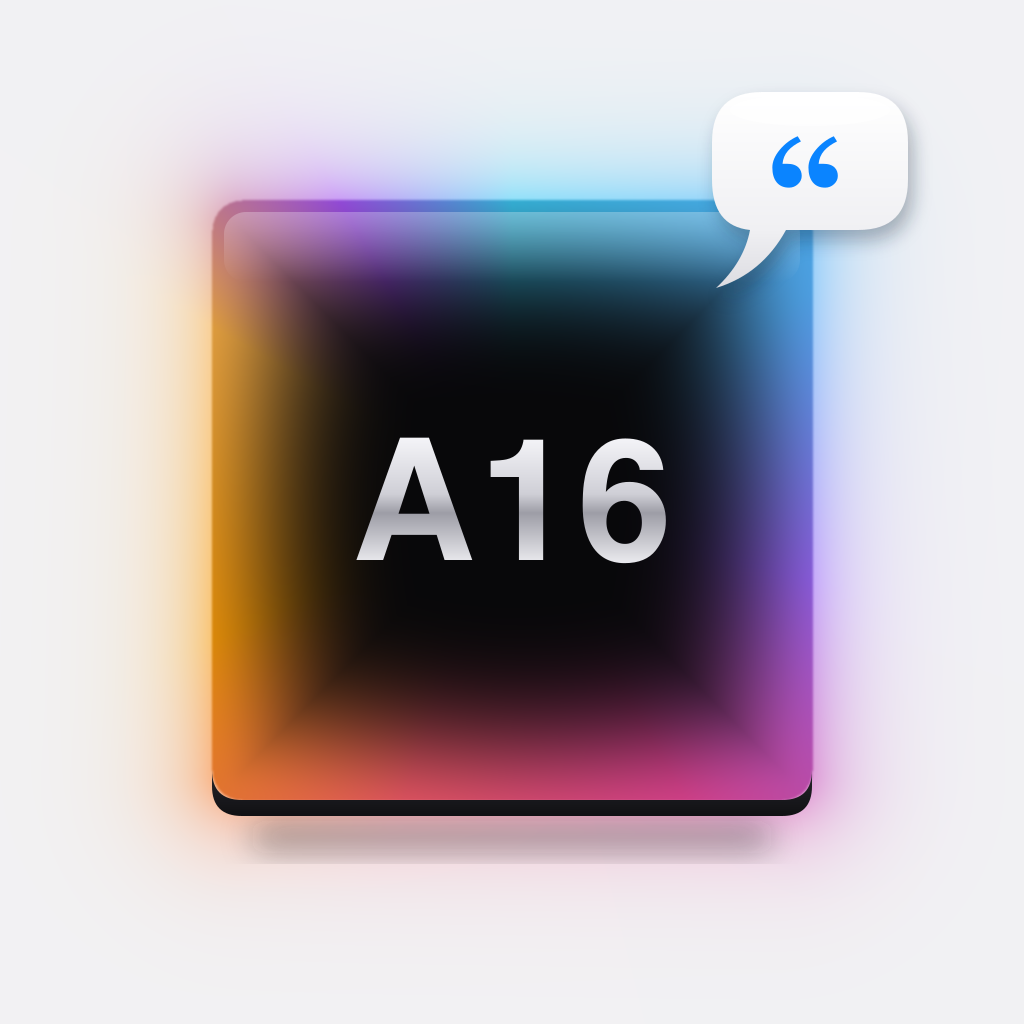
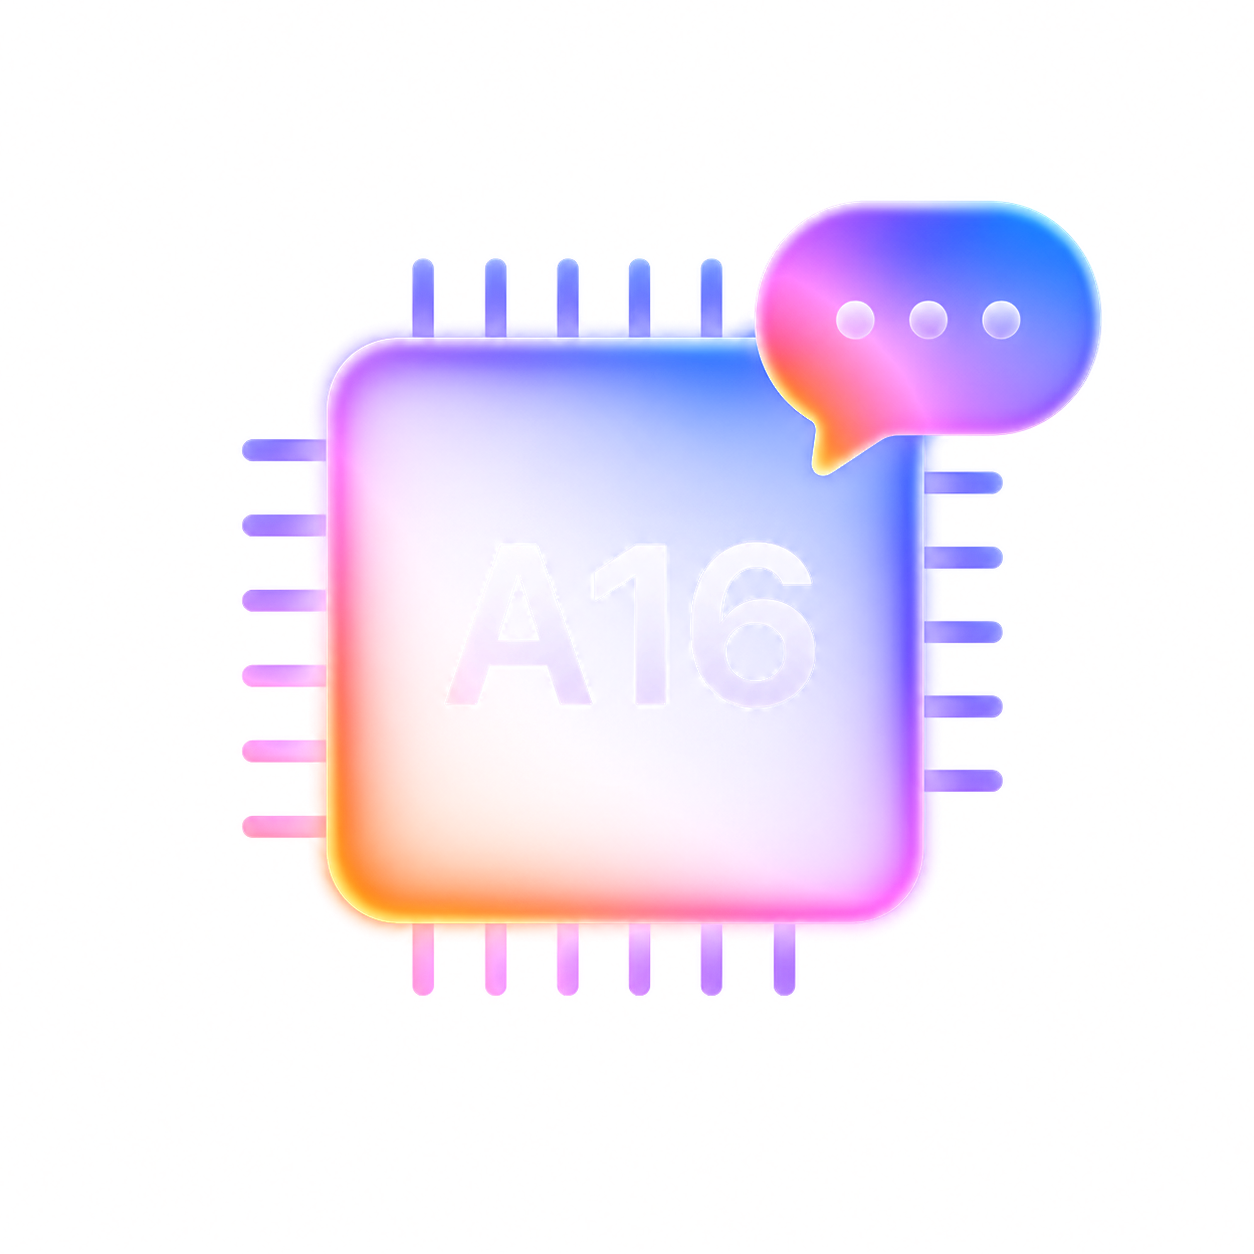
feat: W3 a16-summarizer — locked copy, replacement artwork, engine assets
Workshop W3 output. Copy is LOCKED VERBATIM per Omar's line-by-line rulings;
B-A and B-B lift it mechanically without re-editing.

Resolved the model-size discrepancy that blocked the copy. The repo carried
three figures measuring three different things:
  - 831 MB is ACTIVE RAM (the app's Memory Details popover), not storage
  - 828 MB is model.safetensors in MiB, labelled "MB", weights only
  - 847 MB matches no measured artifact; it reads as an estimate from a
    rounded 1.5B param count (1.5e9 x 4.501 bits = 844 MB)
Measured ground truth, local mlx_model == published HF snapshot, both
880,107,314 B: weights 868.6 MB / 828.4 MiB, full snapshot 880.1 MB.
The copy states 880 MB, meaning the complete 4-bit model on disk.

Artwork replaced with Omar's chosen image (A16 die with chat bubble, glowing
on black; 1254x1254 straight alpha). Verified rather than assumed: composited
on the card gradient, background pixels deviate from the pure gradient by at
most 1/255 per channel. No halo, no fringing.

Card gradient #0A0A0C -> #2A2A2E per Omar's ruling, giving up W4's light card
knowingly. Case-study hero #4338CA -> #1E1B4B chosen from measurement, not
impression: the artwork's saturated pixels are 53% inside hue 210-270 (peak
220-250, blue-violet), which is why the checkpoint's fuchsia was wrong. It
carries white at 7.90:1 and separates from the near-black squircle at 2.50:1.

The W4 generator is no longer a live trap. Renamed to .SUPERSEDED.mjs, headed
[…]

diff --git a/docs/superpowers/content/a16-summarizer-COPY.md b/docs/superpowers/content/a16-summarizer-COPY.md
@@ -1,0 +1,204 @@
+# a16-summarizer — LOCKED COPY (W3, approved 2026-08-30)
+
+**This copy is LOCKED VERBATIM on Omar's approval.** It carries the same status as
+About's locked copy and the Nahtadi COPY-LOCKED rows: every string below was ruled
+line by line at the W3 checkpoint. It is not a draft and it is not a starting point.
+
+- **B-A and B-B lift these strings mechanically.** Every row is a *value*: write it
+  exactly as it appears. No re-phrasing, no "while I'm in here" improvements, no
+  restoring anything from §6.
+- **If a layout cannot hold a line, raise it with Omar.** The strings do not shrink
+  to fit a layout.
+- Sitewide copy law is satisfied and verified: no em dashes, no AI cadence, canonical
+  facts only, skills-defensibility applied to A6. **No Core ML claim anywhere.**
+  Nahtadi is not mentioned, so nothing here can imply Nahtadi contains ML.
+
+Scope: the `a16-summarizer` entry in `src/data/projects.json` (§1), its entry in
+`src/lib/caseStudies.ts` (§2), and the asset/gradient facts already landed (§3).
+
+---
+
+## §0 — The model-size ruling (READ BEFORE USING ANY SIZE NUMBER)
+
+The repo carried **three** different figures. They measure three different things,
+and one of them is simply wrong. Resolved by direct measurement of the model
+directory and of the published Hugging Face snapshot, which are byte-identical.
+
+| Figure | Where it appears | What it actually is | Verdict |
+|---|---|---|---|
+| **831 MB** | `hero_screen.PNG` stat tile, README | **Active RAM**, not storage. The app's own Memory Details popover reads `Active Memory: 831 MB/5.25 GB`. | Correct, but it is a memory number. Never place it beside a disk number without saying so. |
+| **828 MB** | `results/rouge_mlx_4bit.md` | `model.safetensors` = 868,628,547 B = **828.4 MiB**. Binary units, labelled "MB". | Correct value, wrong unit label, and weights only. |
+| **847 MB** | README (x2), `app/README.md` (x2), `quantization_delta.md` (x2) | Matches **no measured artifact**. Closest reading: 1.5e9 params x 4.501 bits = 844 MB, an estimate from a *rounded* parameter count. The real count implied by 4.501 bits/weight is 1.544B. | **WRONG. Do not publish it.** |
+
+**Measured ground truth** (local `mlx_model/` == HF `osyounis/a16-summarizer-mlx-4bit` blobs, both 880,107,314 B):
+
+| Quantity | Bytes | Decimal | Binary |
+|---|---:|---:|---:|
+| `model.safetensors` (weights only) | 868,628,547 | 868.6 MB | 828.4 MiB |
+| Full snapshot (what the phone downloads) | 880,107,314 | **880.1 MB** | 839.3 MiB |
+
+**The locked copy uses `880 MB`, and it means the complete 4-bit model on disk:
+weights plus tokenizer, decimal MB, which is the unit iOS reports storage in.**
+Compression against the ~3.1 GB fp16 merged model is 3.5x.
+
+Consequence for the media figure: **831 vs 880 is not a contradiction**, because one
+is RAM and one is disk. The composite is therefore unblocked, provided its caption
+names each quantity. See §5.
+
+---
+
+## §1 — Catalog entry (`src/data/projects.json`)
+
+| # | Field | LOCKED value |
+|---|---|---|
+| A1 | `id` | `a16-summarizer` |
+| A2 | `title` | `On-Device LLM Summarizer` |
+| A3 | `tagline` | `A 1.5B model fine-tuned, quantized to 4-bit, and running entirely on an iPhone Apple ruled out for on-device AI.` |
+| A4 | `cardStat` | `880 MB on-device` |
+| A5 | `description` | `QLoRA fine-tune of Qwen2.5-1.5B on DialogSum, merged and quantized to 4-bit MLX, then shipped in a SwiftUI app that runs entirely on an iPhone 14 Pro. Apple draws its on-device LLM line at the A17 Pro with 8 GB of RAM; this runs below it on an A16 with 6 GB, at 880 MB on disk and 44.4 tokens per second.` |
+| A6 | `technologies` | `["Python", "PyTorch", "QLoRA", "MLX", "Swift", "SwiftUI"]` |
+| A7 | `keywords` | `["llm", "on-device", "quantization", "fine-tuning"]` |
+| A8 | `tier` / `featured` / `private` | `showcase` / `true` / `false` |
+| A9 | `stats` | `880 MB at 4-bit • 44.4 tok/s • iPhone 14 Pro` |
+| A10 | `category` | `machine-learning` |
+| A11 | `imageAlt` | `An A16 chip die with pins, glowing in violet, magenta and orange, with a chat bubble at its upper right` |
+| A12 | `links` | `{ "github": "https://github.com/osyounis/a16-summarizer" }` |
+| A13 | `brand.gradient` | `{ "from": "#0A0A0C", "to": "#2A2A2E" }` |
+| A14 | `image` | `/images/projects/a16-summarizer/card.png` |
+
+**A13 must be mirrored into `src/lib/projectStyles.ts`** as
+`className: 'bg-gradient-to-br from-[#0A0A0C] to-[#2A2A2E]'` plus matching `stops`.
+`src/lib/__tests__/projectStyles.test.ts` fails if the two drift.
+
+---
+
+## §2 — Case study (`src/lib/caseStudies.ts`, key `'a16-summarizer'`)
+
+| # | Slot | LOCKED value |
+|---|---|---|
+| B1 | `hero` | `{ from: '#4338CA', to: '#1E1B4B' }` |
+| B2 | `thesis` | `Apple draws its on-device LLM line at the A17 Pro with 8 GB. This one runs below it, on an A16 with 6 GB.` |
+| B3 | stat 1 | value `0.29 → 0.46` · label `ROUGE-L, base to the shipped 4-bit model` |
+| B4 | stat 2 | value `880 MB` · label `4-bit model on disk, down from 3.1 GB` |
+| B5 | stat 3 | value `44.4 tok/s` · label `sustained decode on an iPhone 14 Pro` |
+| B6 | tech chips | renders from A6: `Python · PyTorch · QLoRA · MLX · Swift · SwiftUI` |
+
+### B7 — THE PROBLEM
+**eyebrow:** `THE PROBLEM`
+**heading:** `Apple drew the on-device line above this phone.`
+
+**¶1** (no emphasis runs)
+> Apple Intelligence runs its on-device language model only on the A17 Pro and newer, which ship with 8 GB of RAM. The iPhone 14 Pro sits one generation below that line, an A16 with 6 GB, and gets nothing. The hardware gap is real, but the line is drawn for a general assistant.
+
+**¶2** (emphasis run: `one thing`)
+> A model that has to do everything needs the headroom Apple says it needs. A model that has to do **one thing** does not. Narrowing the task is the whole experiment.
+
+### B8 — THE APPROACH
+**eyebrow:** `THE APPROACH`
+**heading:** `Apple's own recipe, one size down.`
+
+**¶1** (emphasis run: `QLoRA fine-tuning of Qwen2.5-1.5B on DialogSum`)
+> Apple's published on-device approach is a small base model, a task-specific LoRA adapter, and aggressive quantization. This project runs that recipe end to end on its own model: **QLoRA fine-tuning of Qwen2.5-1.5B on DialogSum**, merged to fp16, then quantized to 4-bit MLX at group size 64, which lands at 4.5 effective bits per weight.
+
+**¶2** (no emphasis runs)
+> Licensing decided as much as size did. Qwen2.5-1.5B is Apache 2.0 where the 3B is not, and DialogSum is MIT where the more common SAMSum forbids commercial use. Training ran on a single RTX 3080 with about 9 GB of usable VRAM, which is what made 4-bit QLoRA the only way in rather than a nice-to-have.
+
+**¶3** (emphasis run: `published ROUGE numbers describe the model on the phone`)
+> The app is three Swift files on MLX Swift, running on the phone's GPU through Metal. It rebuilds the eval's exact prompt and decoding, greedy at temperature zero with a 96-token cap, so the **published ROUGE numbers describe the model on the phone** and not a friendlier lab configuration.
+
+### B9 — THE IMPACT
+**eyebrow:** `THE IMPACT`
+**heading:** `It runs, and the cost of running it is measured.`
+
+**¶1** (emphasis runs: `880 MB on disk`, `44.4 tokens per second`)
+> On an iPhone 14 Pro the model is **880 MB on disk**, peaks at 1.05 GB of memory against a 5.25 GB ceiling, and decodes at **44.4 tokens per second** after 2.0 seconds to first token. After the first download it never touches the network.
+
+**¶2** (emphasis run: `length and register`)
+> Quantization costs about 1.5 to 2 ROUGE points against the fp16 fine-tune, and the loss is almost entirely precision: recall barely moves, and there are no repetition loops, truncation spikes, or empty outputs. The gain over the base model deserves the same honesty. The base model summarizes fine, it just writes around 68 tokens where the human references average 27.8, so its precision collapses. What the fine-tune actually learned is **length and register**, which for a task-scoped summarizer is exactly the job.
+
+**¶3** (no emphasis runs) — **the Core ML sentence is LOCKED IN, per ruling 4**
+> It began as a way to put the Generative AI with Large Language Models coursework into practice on hardware I already owned. Core ML and the Neural Engine were scoped as a stretch and left unattempted, so this is an MLX and Metal result.
+
+---
+
+## §3 — Assets and gradients (ALREADY LANDED, 2026-08-30)
+
+Done in this session, not left for a B-task:
+
+- `assets/artwork/a16-summarizer.png` replaced with Omar's chosen image (1254x1254,
+  straight alpha). **Verified, not assumed:** composited on A13's gradient, background
+  pixels deviate from the pure gradient by at most **1/255 per channel** (mean 0.17).
+  The extraction is clean, with no halo and no dark fringing. Do not re-extract.
+- `public/images/projects/a16-summarizer/` regenerated via `npm run assets`.
+- `public/og/a16-summarizer.png` generated via `npm run generate:og`. No other OG card
+  changed, since no other gradient moved.
+- `assets/artwork/a16-summarizer-render.mjs` renamed to
+  `…-render.SUPERSEDED.mjs`, given a header stating its output is not the shipped
+  artwork, and pointed at a gitignored scratch filename with a guard that throws if
+  its output path is ever aimed back at the shipped PNG. **Proven by running it:**
+  the shipped PNG's SHA-256 was identical before and after.
+- `assets/anchors/STYLE.md` corrected. Its previous a16 entry claimed a light card
+  gradient and told the reader to regenerate from the render script. Both were false
+  after the replacement.
+- **B1 was chosen from measurement, not impression.** The artwork's saturated pixels
+  are 53% inside hue 210-270 degrees, peaking at 220-250 (blue-violet), which is why
+  the checkpoint's fuchsia proposal was wrong. `#4338CA` sits at hue 245, carries
+  white at **7.90:1** (AA normal text is 4.50), and separates from the near-black
+  squircle at **2.50:1** so the 132px icon reads as a distinct tile on the hero.
+
+**The catalog entry itself is NOT landed.** `npm run assets` resolves gradients through
+`projects.json`, so the §1 entry was added temporarily to generate the assets and then
+reverted: a `showcase` entry with no `caseStudies.ts` key is a deliberate hard build
+failure (`src/app/projects/[slug]/page.tsx`), and the tree must stay green. **B-A lands
+§1, B-B lands §2, and they must land together.**
+
+---
+
+## §4 — Rulings carried from the W3 checkpoint
+
+1. **B3 is `0.29 → 0.46`.** Independently verified against `results/rouge_comparison.md`:
+   rougeL 0.2889 → 0.4808, Δ +0.1919, 95% CI [+0.1772, +0.2067], p ≈ 0, paired bootstrap
+   over 10,000 resamples. A before/after pair beats a delta: it shows the baseline, quotes
+   the model that ships, and dodges the 0-1 vs 0-100 ambiguity that produced "+0.9".
+2. **Model size resolved.** See §0. `880 MB`, stated as disk.
+3. **Media figure: composite approved in principle**, now unblocked by §0. Caveat on
+   record: the stat row already carries ROUGE, so the chart is partly redundant, while
+   the screenshot is the only evidence the thing runs on the phone, which is the thesis.
+   If the composite reads cramped, fall back to **screenshot-only, never chart-only**.
+4. **Core ML sentence: KEEP.** `.claude/CLAUDE.md` is explicit that Core ML must never be
+   a claimed competency, so saying plainly it was not used is exactly right.
+5. **Hugging Face link: DROP.** `Prose` is `string | { em }` with no link run, and this is
+   not worth a template change. The README is one click away.
+6. **`LICENSE` placeholder** in the public repo (`Copyright (c) 2026 <your-name>`) is
+   flagged to Omar. Not site work.
+7. **The résumé** understates the measured ROUGE-L result by roughly nineteen times.
+   Omar's to fix. `public/omar_younis_resume_2026.pdf` and
+   `docs/content/Omar_Younis_Resume.pdf` must stay byte-identical.
+
+---
+
+## §5 — Open, and explicitly NOT decided here
+
+- **The media figure asset** is not built. Next session: composite at 16:9, phone
+  screenshot beside the ROUGE chart, caption naming **831 MB active RAM** and
+  **880 MB on disk** as the different quantities they are. Falls back to
+  screenshot-only if cramped.
+- **Repo drift.** `a16-summarizer`'s own README, `app/README.md` and
+  `quantization_delta.md` state 847 MB in six places. The site will say 880 MB. A
+  reader comparing them sees a mismatch, exactly as with the résumé. Omar's call
+  whether to correct the repo.
+- **Home swap** (`image-watermark-remover` out, a16 in, both grid and orbit) is B-A's,
+  and needs no new copy: `HomeWork.tsx` renders `title` and `cardStat` straight from
+  `projects.json`, so A2 and A4 already cover it.
+
+---
+
+## §6 — Struck, do not restore
+
+- `847 MB` in any slot. It is not a measurement. See §0.
+- `+0.9 ROUGE-L`, and any bare delta form of B3.
+- The W4 light card gradient `#F5F5F7 → #E8E8ED`, and the "catalog's one light card"
+  framing that went with it.
+- The checkpoint's fuchsia hero `#A21CAF → #17101F`. Wrong hue family, measured.
+- Any Hugging Face link or repo ID in body copy.
+- Any mention of Core ML that does not state it was left unattempted.

diff --git a/assets/anchors/STYLE.md b/assets/anchors/STYLE.md
@@ -90,5 +90,13 @@ duller and more uniform than Omar's existing icons. Only `anchor-2` survives, as
 ## Sub-project 5 additions (2026-08-30)
 
 - `radar-moboard.png` — drafting-compass-on-plotting-dial, recraftv3 + custom style, background keyed. Gradient: deep sea-steel `#0F2A43 -> #101F2E`, cyan/amber accents.
-- `a16-summarizer.png` — FULL-SQUARE opaque artwork (the compositor must NOT place it on a gradient tile; it IS the tile). 100% procedural render, no AI: per-pixel conic aurora on the die face (Omar's key observation: the aurora sits ON the face, not around it), silver A16, white received-style iMessage bubble with blue quote. Card gradient: light `#F5F5F7 -> #E8E8ED` (the catalog's one light card, by design). Regenerate exactly with `assets/artwork/a16-summarizer-render.mjs`.
+- `a16-summarizer.png` — **REPLACED 2026-08-30 (W3), superseding the W4 render below.** Omar's chosen image: an A16 die with pins and a chat bubble, glowing on pure black. Extracted to a transparent PNG (1254x1254, straight alpha) by the sanctioned glyph-extraction technique, using `alpha = max(R,G,B)` with un-premultiplied RGB. The subject is ADDITIVE GLOW, not an object on a backdrop, so **do not re-extract with a threshold** — that clips the glow and leaves a dark halo. Verified: composited on the card gradient, background pixels deviate from the pure gradient by at most 1/255 per channel.
+  Card gradient: **`#0A0A0C -> #2A2A2E`** (near-black to dark grey). Three plausible alternatives are all wrong, recorded so they are not retried:
+  - the W4 LIGHT gradient `#F5F5F7 -> #E8E8ED` fails outright — composited, the chip washes out and the A16 wordmark is barely legible, because the artwork is glow-on-black. a16-summarizer is therefore **no longer the catalog's one light card**: a deliberate W4 choice given up knowingly, not overlooked.
+  - VIOLET and FUCHSIA fail on hue collision. Measured, the artwork's saturated pixels sit 53% inside 210-270 degrees (peak 220-250, blue-violet); asl-detector already owns violet (`#5B21B6 -> #2E1065`), and a fuchsia ground sits too close to the subject to separate from it — the same rule `home/APPROVED.md` records as the green-on-green blend bug.
+  - NEUTRAL DOES NOT COLLIDE with brent-cuda (`#4B5563 -> #1F2937`), which reads as a blue-grey slate against this near-black. Verified by rendering side by side.
+  - Do not darken further toward flat black. Every other catalog card has visible gradient movement; one that reads flat would look like a fault.
+  The **case-study hero** gradient is separate and is `#4338CA -> #1E1B4B` (see `docs/superpowers/content/a16-summarizer-COPY.md`, row B1): the near-black squircle needs a ground to separate from, which the card gradient cannot provide.
+- `a16-summarizer-render.SUPERSEDED.mjs` — the W4 generator, **kept as the worked example of technique 7 and nothing else**. It no longer produces the shipped artwork; it writes a `-SUPERSEDED-w4.png` scratch file (gitignored) and hard-fails if its output path is ever pointed back at `a16-summarizer.png`. It is the only paired render script in `assets/artwork/`; the convention there remains **one committed, human-approved PNG per project**, with generators the exception rather than the rule.
+  What it drew (for the method record): FULL-SQUARE opaque artwork, 100% procedural, no AI — per-pixel conic aurora on the die face (Omar's key observation: the aurora sits ON the face, not around it), silver A16, white received-style iMessage bubble with blue quote.
 - **New technique 7 for the ladder: full-procedural rendering** — when the reference demands precision no model will hold (exact geometry, exact color fields), render it in code (per-pixel math + SVG overlay). Deterministic, infinitely tunable, free.
